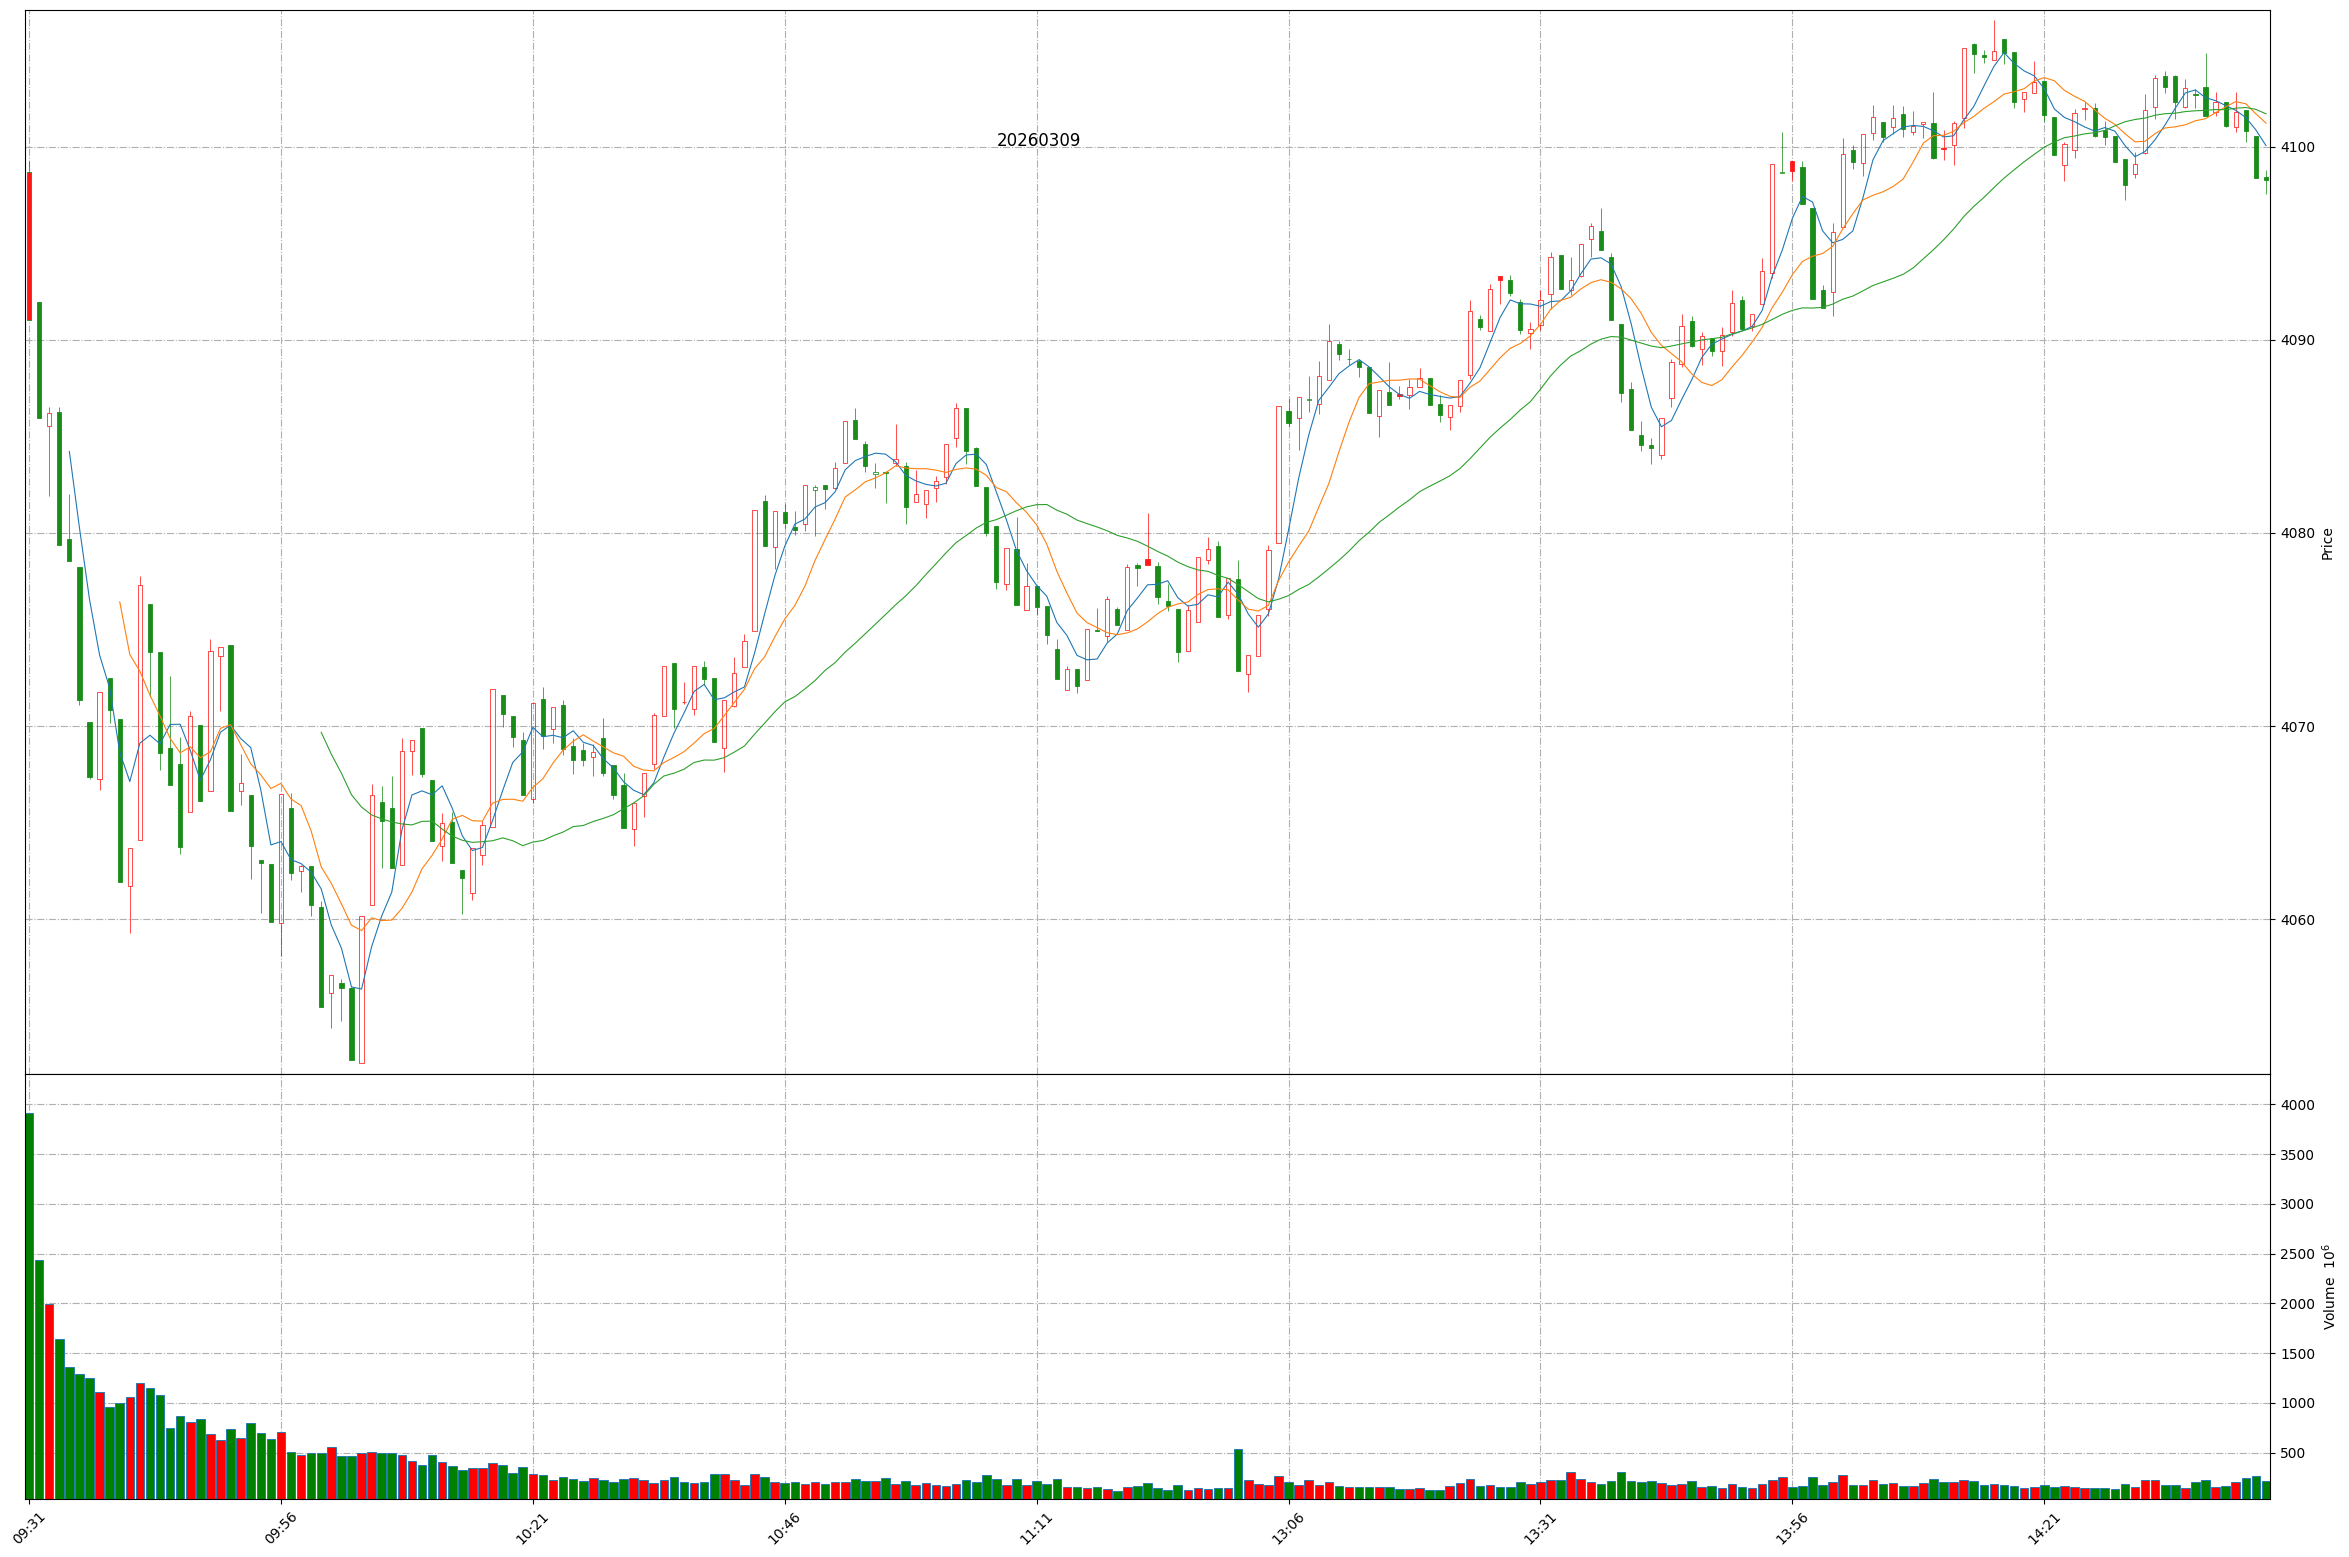
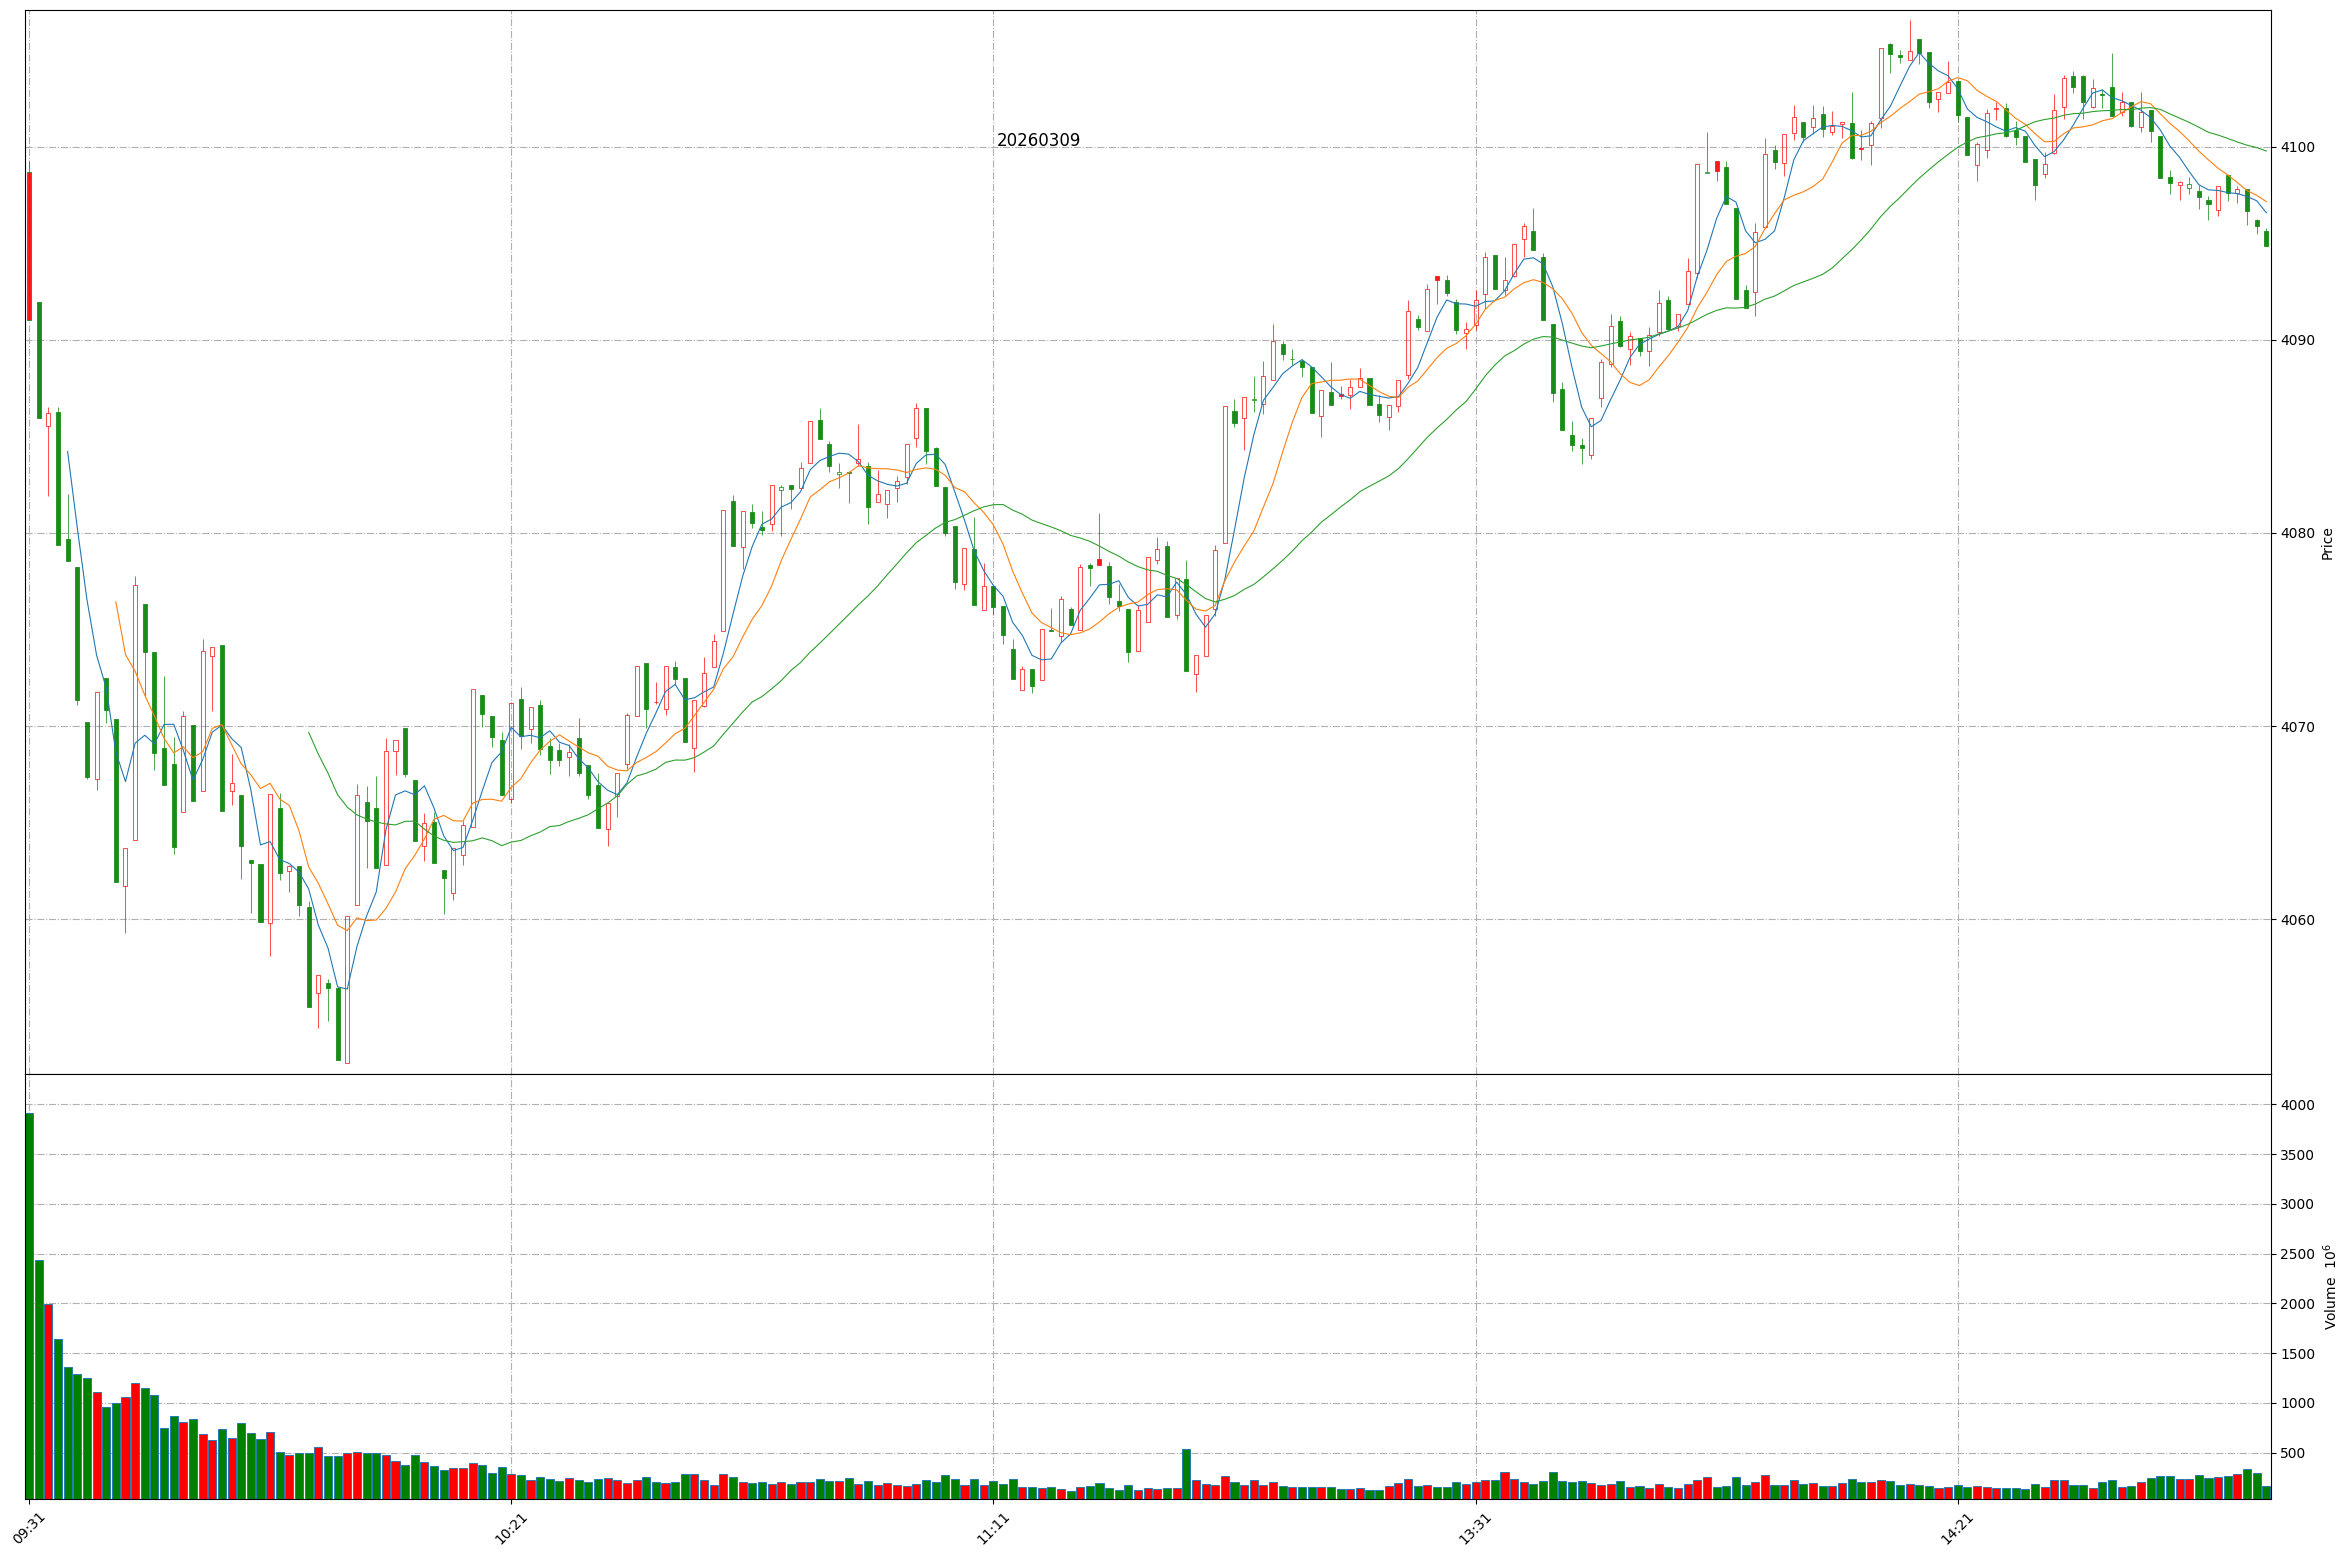
Github action update at 2026-03-09 14:52:54.

Changed region(s): [[0.0311, 0.0308, 0.9634, 0.6782], [0.0, 0.8632, 0.9634, 0.9865]]

diff --git a/README.md b/README.md
@@ -1,11 +1,11 @@
 
 # Daily-A-share-market-quotes 每日 A 股指数（5min 更新）- 20260309
 
-### 上证指数 20260309 14:43
+### 上证指数 20260309 14:52
 ![](./fig/2026/3/20260309-sh000001.png)
 
-### 深证成指 20260309 14:43
+### 深证成指 20260309 14:52
 ![](./fig/2026/3/20260309-sz399001.png)
 
-### 北证50 20260309 14:43
+### 北证50 20260309 14:52
 ![](./fig/2026/3/20260309-bj899050.png)
